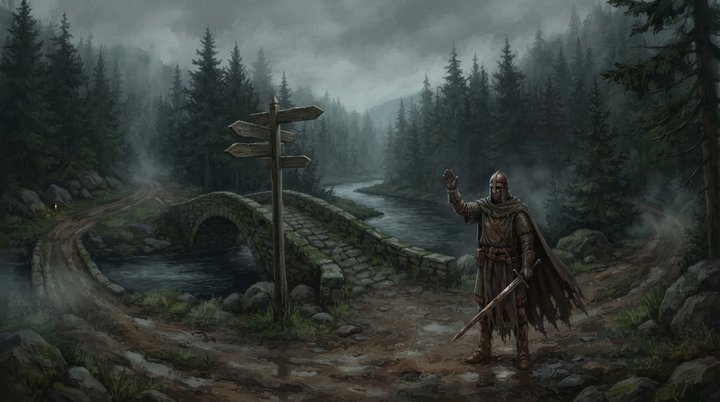
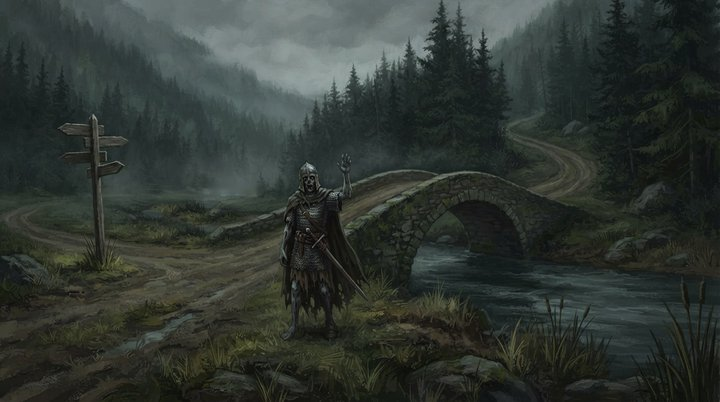
Repaint Raven River Crossroads with one bridge over one river
Chris spotted two parallel bridges and a river running off two ways.

Claude-Session: https://claude.ai/code/session_01U8i5qWfGKkg5NzHW6TNXmV

diff --git a/content/wiki/raven-river-crossroads.md b/content/wiki/raven-river-crossroads.md
@@ -7,7 +7,7 @@ source: Compiled from the adventure log, with a description written for the site
 
 ## Description
 
-![A revenant guarding the bridge over the Raven River](/images/raven-river-crossroads-ai.jpg)
+![A revenant knight raising a hand in greeting at the crossroads by the one stone bridge over the Raven River](/images/raven-river-crossroads-ai.jpg)
 
 *AI-generated image (Google Gemini, November 2026), drawn from this page and the session logs. Not official art.*
 
